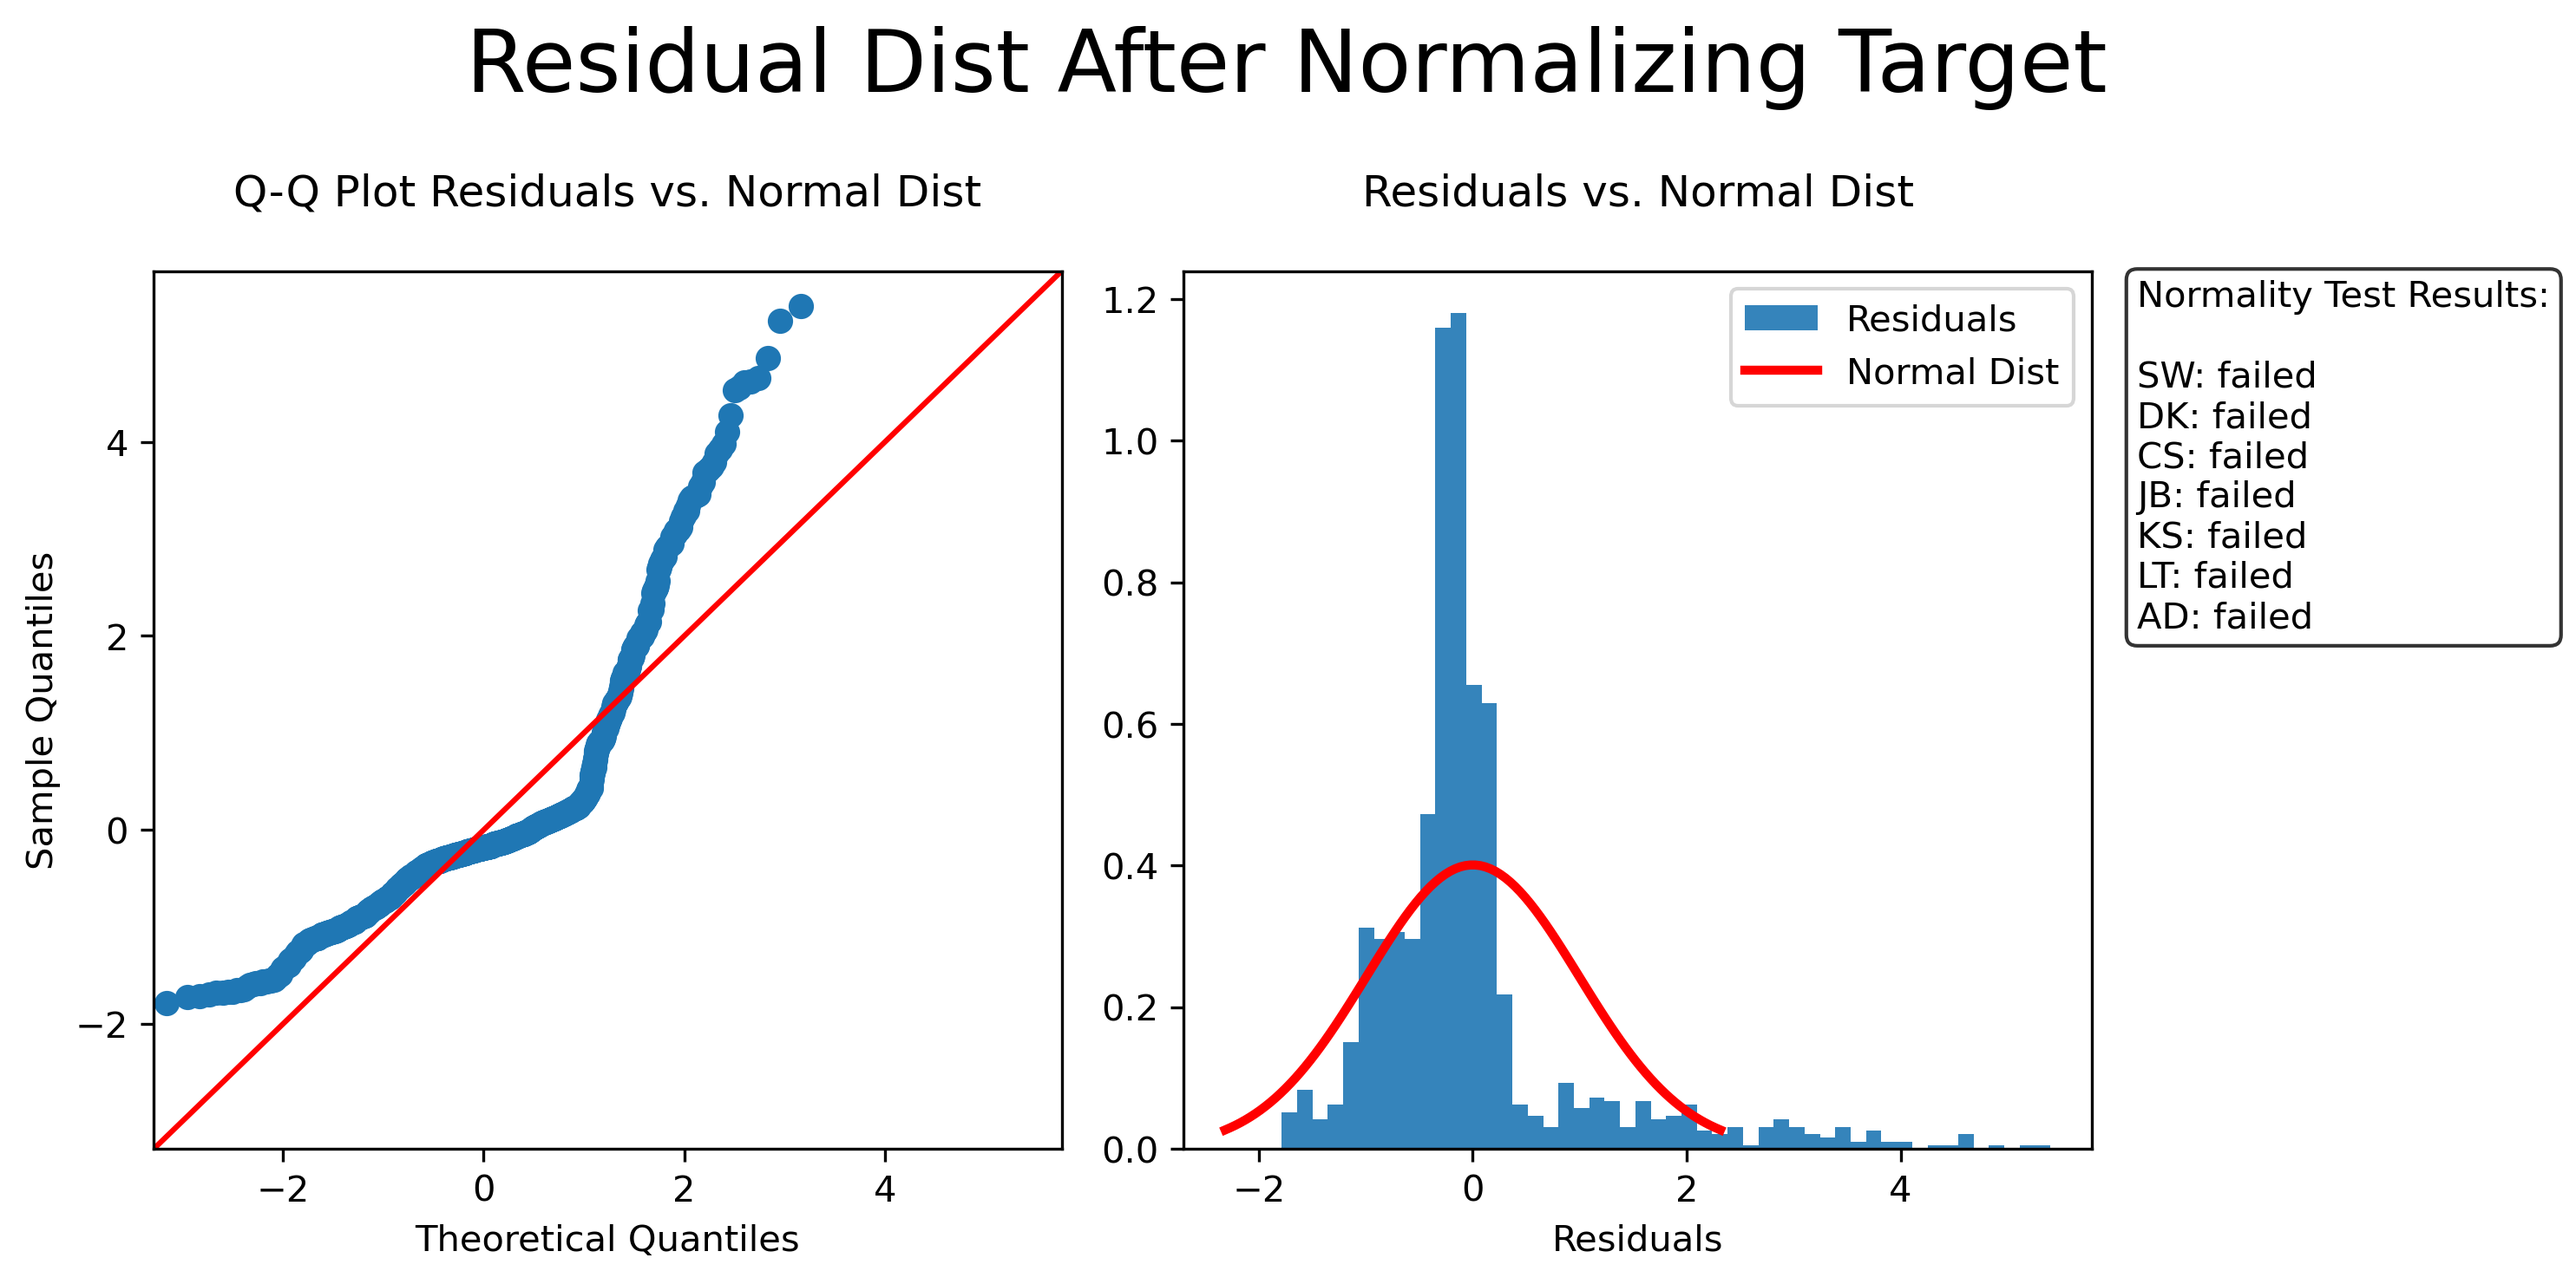
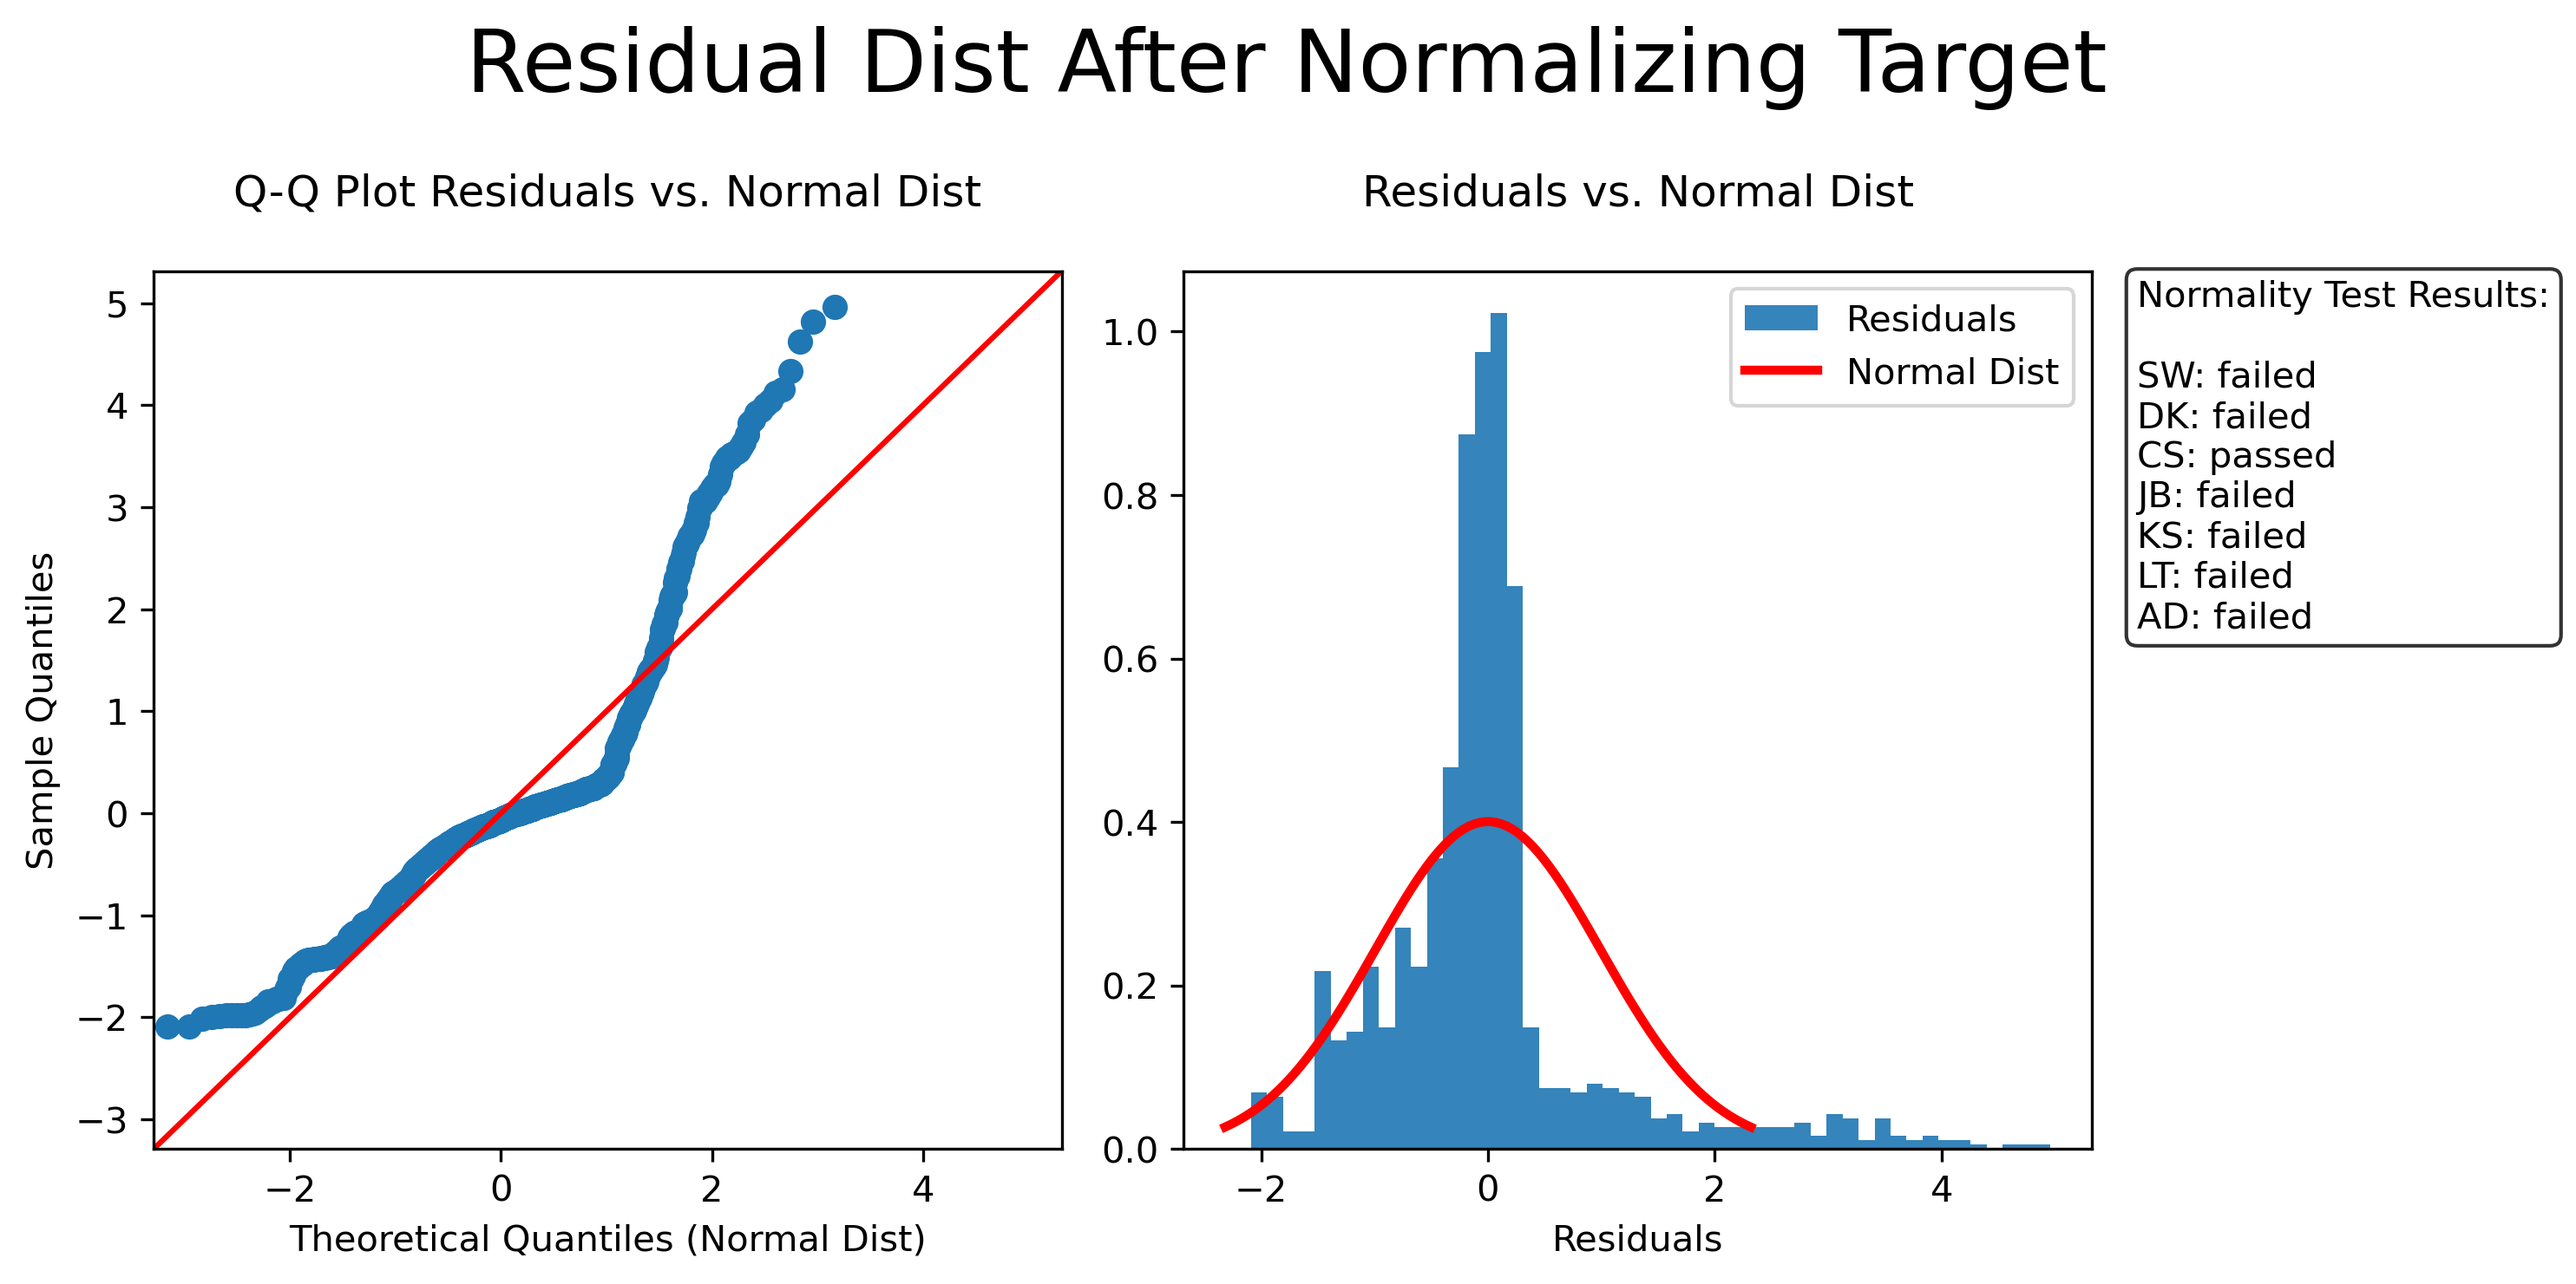
updated plots

diff --git a/cost_lin_reg.py b/cost_lin_reg.py
@@ -1223,8 +1223,8 @@ dh.plot_qq_hist_dist_combined(resid6, fig_title='Residual Dist After Outlier Rem
                            save_img=False, img_filename=qqhist_filename_4, save_dir=models_output_dir)
 
 # ==========================================================
-# Try applying nonlinear transformations to variables rather than outlier removal
-# Independent variables are already close to normal or uniform distributions
+# I tried applying nonlinear transformations to variables rather than outlier removal
+# But independent variables are already close to normal or uniform distributions, so this didn't change much
 # ==========================================================
 
 # Plot distribution of nontransformed y
@@ -1241,7 +1241,7 @@ plt.legend()
 # Box-Cox transformation of y
 # =============================
 # New dataset
-new_X_7 = new_X_4.copy()
+new_X_7 = new_X_4_2.copy()
 
 # Boxcox 'charges'
 y_bc, lambd = stats.boxcox(y)
@@ -1256,7 +1256,9 @@ plt.xlabel('charges')
 title_7 = 'box-cox charges'
 model_name_7 = 'normalized [charges]'
 file_name_7 = '7_bc_charges'
-sm_lin_reg_7, sm_y_pred_7, het_results_7 = fit_lr_model_results(new_X_7, y_bc, title_7, subgroup=True, save_img=False, filename_unique=file_name_7)
+sm_lin_reg_7, sm_y_pred_7, het_results_7 = fit_lr_model_results(new_X_7, y_bc, title_7, subgroup=True, 
+                                                                ob_smoke_series=ob_smoke_series,
+                                                                save_img=False, filename_unique=file_name_7)
 
 # Function combining normality tests and interpreting results
 normal_results7, normal_interpret7, nml_interpret_txt7 = dh.normality_tests(sm_lin_reg_7.resid_pearson)
